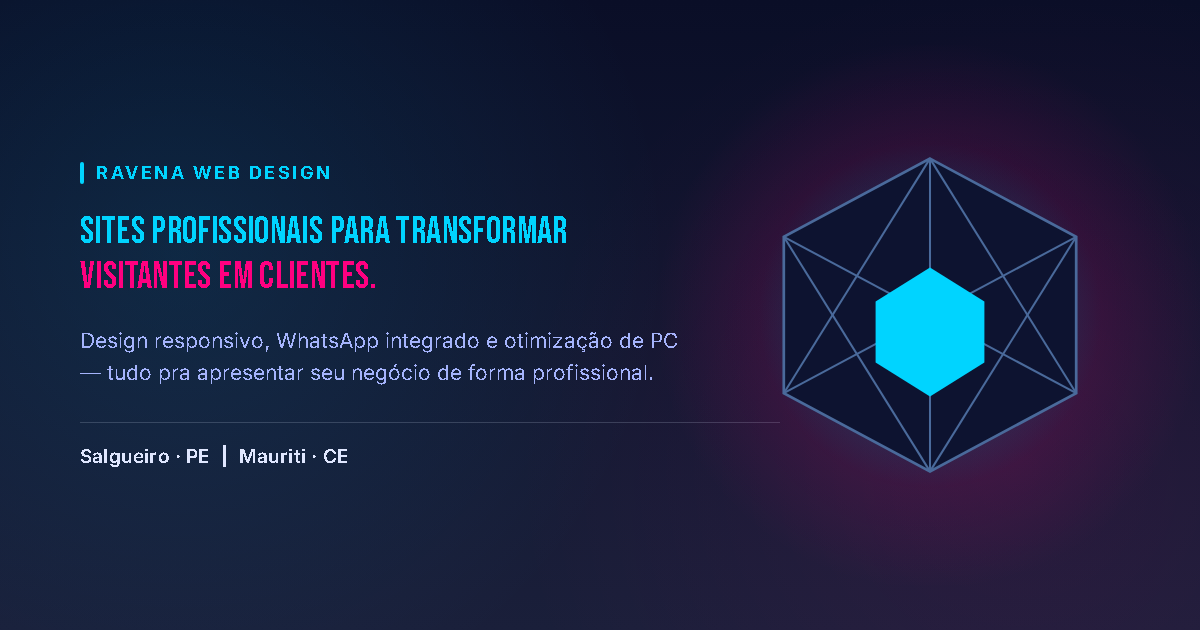
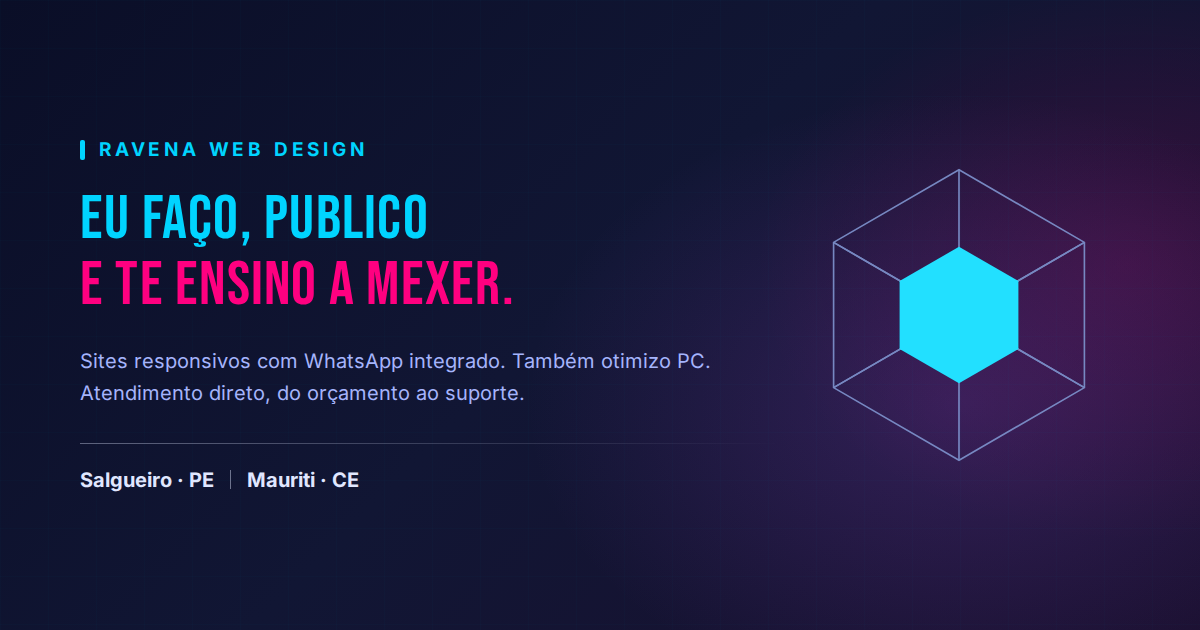
Nova frase de marca: "Eu faco, publico e te ensino a mexer."
A frase antiga ("Sites profissionais para transformar visitantes em clientes")
era a unica linha do site sem a voz do resto do texto: sem primeira pessoa, sem
verbo de quem faz, e com "profissionais", palavra que qualquer um reivindica.
Alem disso repetia o hero logo abaixo, que ja diz "um site que traga clientes" —
a mesma promessa duas vezes em cem pixels.

A nova puxa o diferencial que ja estava escrito no "Sobre" e nao aparecia no
topo: quem faz e quem atende, do orcamento ao suporte.

Trocada em todos os lugares onde vivia:
- subtitulo do cabecalho
- og:title e twitter:title
- og:image:alt
- og:description e twitter:description, reescritas no mesmo tom
- og-image.png, onde estava desenhada em pixels: imagem refeita em 1200x630 com
  as fontes reais (Bebas Neue e Inter), mesma paleta e mesma composicao

Contraste da imagem conferido no pixel pintado: titulo ciano 9,66:1, titulo rosa
4,42:1 (texto grande exige 3:1), subtitulo 8,13:1, cidades 13,41:1.
Cabe em uma linha em 1366px, 393px e 375px.

Claude-Session: https://claude.ai/code/session_013jTJJN1M6DDrGwd5rCn9cT

diff --git a/index.html b/index.html
@@ -15,16 +15,16 @@
     <meta property="og:locale" content="pt_BR">
     <meta property="og:site_name" content="Ravena Web Design">
     <meta property="og:url" content="https://ravena-web-design-oficial.netlify.app/">
-    <meta property="og:title" content="Ravena Web Design | Sites profissionais para transformar visitantes em clientes">
-    <meta property="og:description" content="Landing pages responsivas com integração WhatsApp, feitas para transformar visitas em clientes. Planos a partir de R$ 300.">
+    <meta property="og:title" content="Ravena Web Design | Eu faço, publico e te ensino a mexer">
+    <meta property="og:description" content="Sites responsivos com WhatsApp integrado, feitos do zero e entregues no ar. Atendimento direto, planos a partir de R$ 300.">
     <meta property="og:image" content="https://ravena-web-design-oficial.netlify.app/og-image.png">
     <meta property="og:image:width" content="1200">
     <meta property="og:image:height" content="630">
-    <meta property="og:image:alt" content="Ravena Web Design — Sites profissionais para transformar visitantes em clientes">
+    <meta property="og:image:alt" content="Ravena Web Design — Eu faço, publico e te ensino a mexer">
 
     <meta name="twitter:card" content="summary_large_image">
-    <meta name="twitter:title" content="Ravena Web Design | Sites profissionais para transformar visitantes em clientes">
-    <meta name="twitter:description" content="Landing pages responsivas com integração WhatsApp, feitas para transformar visitas em clientes.">
+    <meta name="twitter:title" content="Ravena Web Design | Eu faço, publico e te ensino a mexer">
+    <meta name="twitter:description" content="Sites responsivos com WhatsApp integrado, feitos do zero e entregues no ar. Atendimento direto.">
     <meta name="twitter:image" content="https://ravena-web-design-oficial.netlify.app/og-image.png">
 
     <meta name="theme-color" content="#0a0e27">
@@ -142,7 +142,7 @@
 <!-- CABEÇALHO -->
 <header class="site-header">
     <h1>Ravena Web Design</h1>
-    <p>Sites profissionais para transformar visitantes em clientes.</p>
+    <p>Eu faço, publico e te ensino a mexer.</p>
 
     <nav class="site-nav" aria-label="Navegação principal">
         <a href="#trabalhos">Trabalhos</a>
